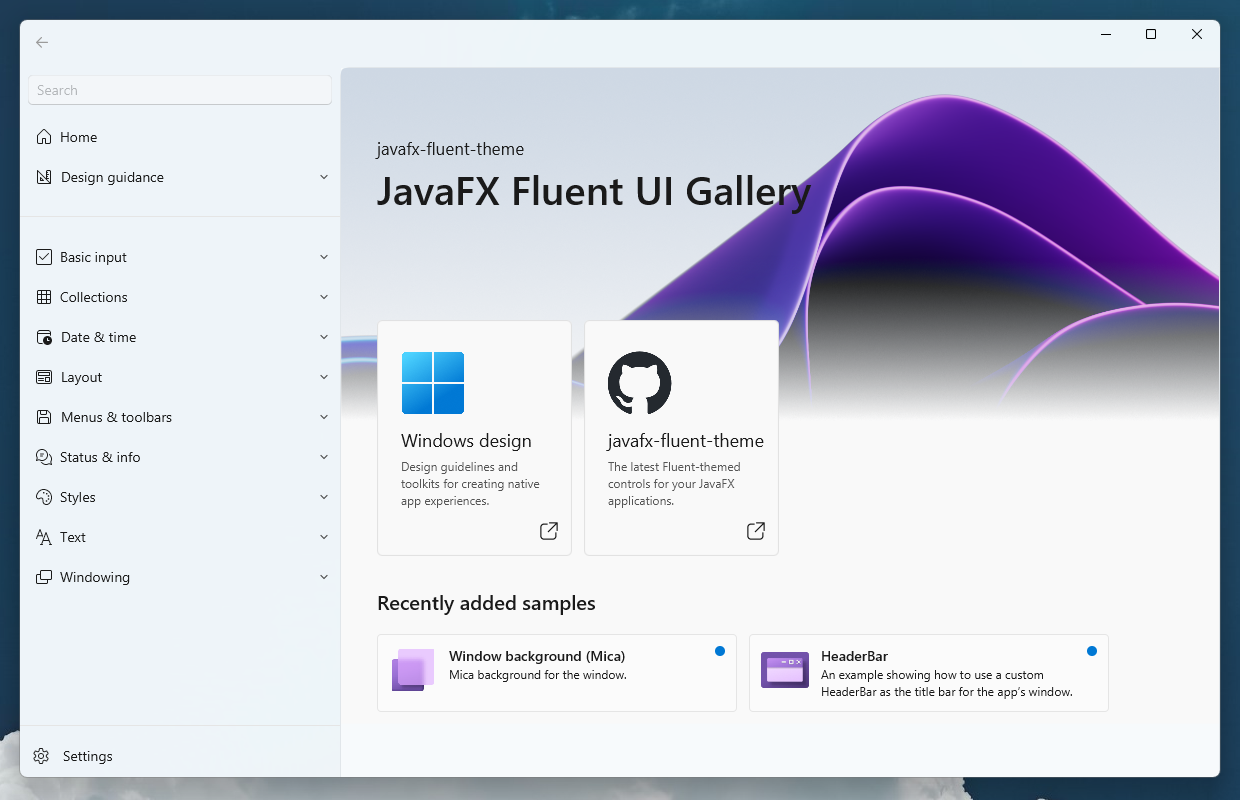
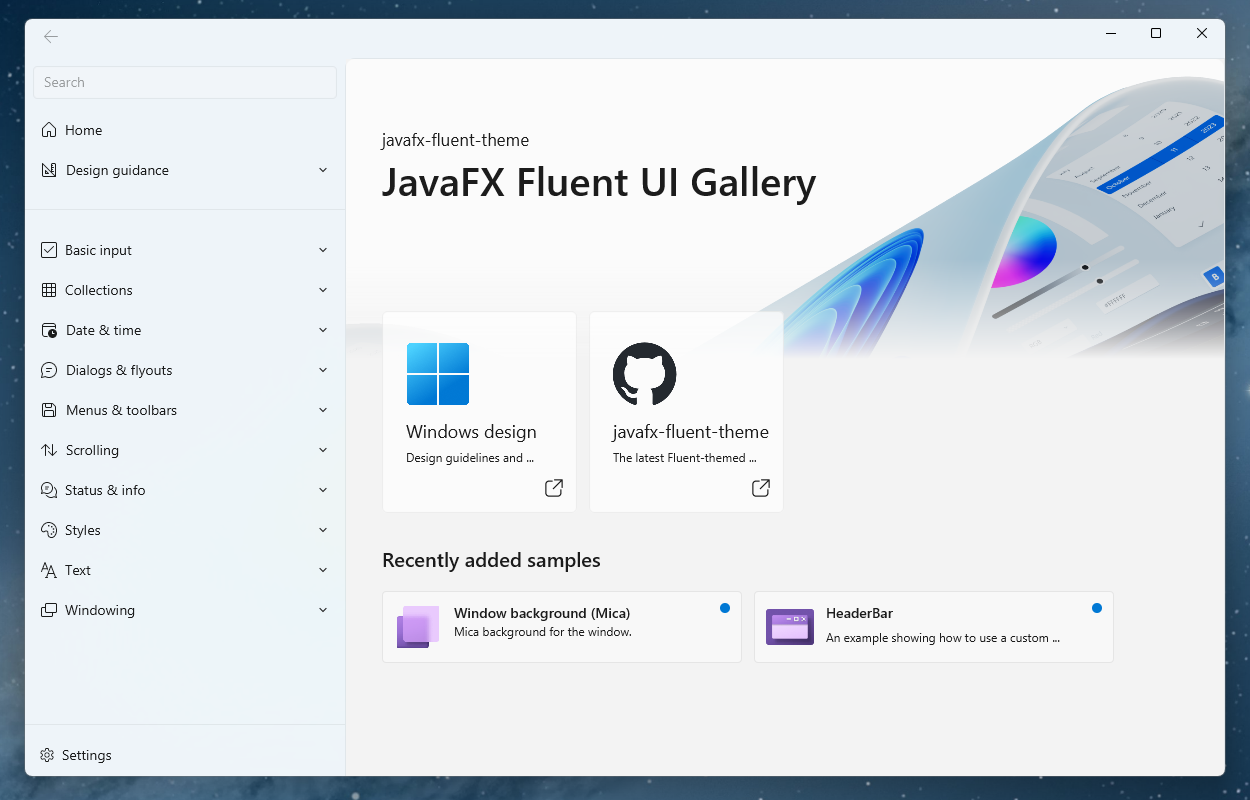
Update README

diff --git a/README.md b/README.md
@@ -2,36 +2,54 @@
 
 ![](/docs/Demo.png)
 
-This is a custom theme for JavaFX to make your application look like a Windows 11 (WinUI) program. It replaces `modena.css` with styles that follow Microsoft's _Fluent design_ language. In addition, you can [apply Windows 11's _Mica_ effect to your window](#enabling-windows-11s-mica-effect), or [override Windows' default window title bar](#removing-windows-default-title-bar) for complete client-side decorations.
+This is a faithful recreation of Windows 11's _fluent theme_ (WinUI) for JavaFX. It is **directly based on WinUI's XAML resources**, and uses Windows' platform APIs to automatically react to the current system theme and accent colors. **All controls are tinted by the active accent color!**
 
-Take a look at the [example application](#demo-application), or see here [how to achieve Windows' built-in effects](#usage).
+In addition, you can [apply Windows 11's _Mica_ effect to your window](#enabling-windows-11s-mica-effect), or [override Windows' default window title bar](#removing-windows-default-title-bar) for complete client-side decorations.
 
-See [here for the list of styled controls](#table-of-javafxwinui-controls), and to see which is still missing.
+<details><summary>Example gallery light theme</summary>
 
-![](/docs/Gallery.png)
+![](/docs/ControlsLight.png)
+</details>
+
+<details><summary>Example gallery dark theme</summary>
+
+![](/docs/ControlsDark.png)
+</details>
+
+## TL;DR
+
+* Download the JAR and `FluentLib.dll` (x64) from the [Releases](https://github.com/Eroica/javafx-fluent-theme/releases)
+* Sub-class `FluentApp`
+  * Initialize your scene in FluentApp's `onCreateStage` (instead of `start`)
+  * DON'T call any `initStyle(...)`
+  * For Mica effect, make sure your Scene has a transparent background
+* Call `FluentApp.initialize()` as early as possible, e.g. in your `fun main()`
+
+By default, this will apply the current system theme (light/dark), watch it for changes, and enable Mica and a client-side header bar for the application.
+
+```kotlin
+fun main() {
+    FluentApp.initialize()
+    launch(FluentDemo::class.java)
+}
+
+class FluentDemo : FluentApp() {
+    override fun onCreateStage(primaryStage: Stage) {
+        primaryStage.minWidth = 800.0
+        primaryStage.minHeight = 600.0
+        primaryStage.title = "JavaFX Fluent Demo"
+        primaryStage.scene = Scene(StackPane(), Color.TRANSPARENT)
+    }
+}
+```
+
+See [Usage](#usage) for detailed explanations.
+
+See [here for the list of styled controls](#table-of-javafxwinui-controls) (and which are still missing).
+
+See [Development](#development) to learn how it works.
 
 ***
-
-The theme and example application are written in Kotlin and built with Gradle. `FluentLib.dll` is required to call Windows' internal functions. It is created by a Visual Studio project located in `FluentLib/`.
-
-```
-theme/      # CSS theme and custom JavaFX controls which can be used as a library
-FluentLib/  # Windows DLL to get access to Mica/title bar replacement
-demo/       # demo application that uses the theme and DLL
-```
-
-The theme (currently, only a light theme is available) is built by SASS with files in `theme/src/main/css`.
-
-## Setup/Installation
-
-The whole `theme` package includes CSS styling, custom skins, and a `FluentApp` abstract class that takes care of setting everything up.
-
-* If you want to use the whole package, you need to build the `theme` package locally, and then include it in your dependencies.
-* Alternatively, if you just want to change the look of some controls, you can copy the theme's CSS file into your project. However, some controls use custom skins to e.g. enable animations. See the [list of controls here](#table-of-javafxwinui-controls).
-
-If you want to use Windows' internal functions, you need to load `FluentLib.dll` in your code. `FluentApp` takes care of that, but the DLL must be available to the application, which is usually where the process is being executed; in a Gradle environment, put it where your project's `build.gradle.kts` is located.
-
-You can download a pre-built DLL from the [Releases](https://github.com/Eroica/javafx-fluent-theme/releases/tag/v2024.04).
 
 ## Usage
 
@@ -46,19 +64,33 @@ fun main() {
 
 This takes care of loading the FluentLib DLL, and does some checks so that Windows 11's Mica effect works (see [Issues](#issues)).
 
-For the `YourApp` class, subclass `FluentApp`. It  has a single abstract method `onCreateStage(Stage)`. In general, whatever you do in `start()`, you should now do in `onCreateStage`, with some exceptions:
+For the application class, it's a little easier if you sub-class `FluentApp` (method 1), but there is also manual way (method 2):
+
+### Sub-classing FluentApp (method 1)
+
+`FluentApp` comes with two abstract methods: `onCreateStage` and `onStageCreated`. In general, whatever you do in `start()`, you should now do in `onCreateStage`, with some exceptions:
 
 * Don't change the Stage style using `initStyle`.
+* **You must set a title for the Stage;** this should be unique to the app because FluentLib uses the title to find the low-level Win32 window handle
 * Don't call `primaryStage.show()`. FluentApp takes care of that.
 
-### Manual setup
+Before `FluentApp` is instantiated, you can configure these static fields:
+
+* `FluentApp.useMica: Boolean`: Whether to apply Windows 11's Mica effect (default: true)
+* `FluentApp.useHeaderBar: Boolean`: Whether to use "client-side decorations" (default: true)
+* `FluentApp.setTheme(ColorScheme?)`: Set a fixed theme (`ColorScheme.DARK`/`ColorScheme.LIGHT`) or `null` to use system theme (default: `null`)
+
+A non-`null` value to `setTheme` will set the theme persistently, i.e. will not react to Windows changes anymore. Activate automatic changes again by calling `FluentApp.setTheme(null)` (see [Demo application](#demo-application)).
+
+### Manual setup (method 2)
 
 If you want to set up the theme manually without subclassing `FluentApp`, make sure to:
 
-* Override `modena.css` as early as possible with `setUserAgentStylesheet("fluent-light.css")`
+* Override `modena.css` as early as possible; you can use `fluent-light.css` and `fluent-dark.css` from this package's resources
 * If you want to use Mica/other effects, load the DLL as early as possible: `System.loadLibrary("FluentLib")`
 * If you want to use Mica/other effects, set your stage's style to `StageStyle.UNIFIED`
-* Only use methods from the FluentLib DLL **after** `primaryStage.show()`
+* **Set a unique title for the stage**
+* Only use methods from FluentLib (wrapped by `lib/Windows.kt`) **after** `primaryStage.show()`
 
 ### Enabling Windows 11's Mica effect
 
@@ -71,7 +103,7 @@ Windows 11's "Mica" effect can be activated with this library's `Windows.setMica
 
 #### Issues
 
-While it's generally possible to get the Mica effect without using Microsoft's blessed ways, it seems it is a little unreliable under JavaFX **when using certain types of GPUs**. More info is available here: [Graphic issues on certain GPUs](https://github.com/mimoguz/custom_window/issues/2)
+While it's generally possible to get the Mica effect without using Microsoft's blessed ways, it seems it is a little **unreliable under JavaFX when using certain types of GPUs**. More info is available here: [Graphic issues on certain GPUs](https://github.com/mimoguz/custom_window/issues/2)
 
 When you see a "glitched" Mica effect, try using software rendering first by setting this as early as possible (i.e. before calling JavaFX' `launch`):
 
@@ -90,7 +122,7 @@ System.setProperty("javafx.animation.fullspeed", "true") // When on monitors >60
 
 Windows' default title bar normally shows a small icon and the window title. You can remove this title bar and merge the content area with the window controls to use this "unused" space. Many macOS and GTK applications use a similar design which arguably looks a little more modern.
 
-The Win32 equivalent is called `DwmExtendFrameIntoTitleBar`. (There is actually code in JavaFX that uses this, but it doesn't seem to work reliably.) With this theme, you get a more reliable way to achieve this window styling. Follow this (if you want to do it manually):
+The Win32 equivalent is called `DwmExtendFrameIntoTitleBar`. (There is actually code in JavaFX that uses this, but it doesn't seem to work reliably.) With this theme, you get a more reliable way to achieve this window styling. Follow this if you want to do it manually:
 
 * The Stage's window style must be `StageStyle.UNIFIED`.
 * **After** `primaryStage.show()`, call `Windows.setHeaderBarFor(String, Boolean)` providing your window's title to remove the title bar.
@@ -115,18 +147,43 @@ An example header bar:
     <padding>
         <Insets top="4.0" right="8.0" bottom="4.0" left="8.0"/>
     </padding>
-    <Button text="&#xe830;" styleClass="subtle" disable="true"></Button>
+    <Button text="&#xe830;" styleClass="subtle, fluent, icon" disable="true"></Button>
     <DragPane HBox.hgrow="ALWAYS"/>
 </HeaderBar>
 ```
 
----
+## Development
+
+The theme and example application are written in Kotlin and built with Gradle. `FluentLib.dll` is required to call Windows' internal functions. It is created by a Visual Studio project located in `FluentLib/`.
+
+```
+theme/      # CSS theme and custom JavaFX controls which can be used as a library
+FluentLib/  # Windows DLL to get access to Mica/title bar replacement
+demo/       # demo application that uses the theme and DLL
+```
+
+### How it works
+
+The "base" fluent theme is referencing the system colors with placeholders (CSS variables), and at runtime, `FluentApp` creates an in-memory stylesheet of the base style and the colors from `Preferences`. The in-memory stylesheet invalidates itself when there is a change to `Preferences` (e.g. theme or accent color has changed), and dynamically creates a new stylesheet. This was actually taken from JavaFX' Modena example app.
+
+The base theme itself is based on my previous, hand-written theme, but referencing the real XAML values from Microsoft's `microsoft-ui-xaml` repository. This makes javafx-fluent-theme _very_ true to the original.
+
+### Non-goals
+
+* Support on macOS or using JavaFX with GTK
+* Compatibility with Windows 10 (Windows 11 replaces the previous _Segoe MDL2 Assets_ with _Segoe Fluent Icons_ which is used throughout this project, and which is not guaranteed to be available on Windows 10).
+
+### Support
+
+If you or a company require more widgets than currently available, fuller control, deeper integration with Windows APIs, or general JavaFX help, you can acquire a commercial license for _javafx-fluent-theme_. You can get in touch by sponsoring this project on GitHub.
+
+***
 
 # Demo application
 
 ![](/docs/Demo.png)
 
-The `demo` application is roughly designed after "WinUI 3 Gallery". So far I mostly added the _controls_ as opposed to containers like `StackPanel`/`StackPane`. Take a look at the list of controls below to see what is missing.
+The `demo` application is roughly designed after "WinUI 3 Gallery". Take a look at the list of controls below to see what is missing.
 
 I renamed "System Backdrops (Mica/Acrylic)" (found under "Styles") to "Window background", and "TitleBar" (under "Windowing") to "HeaderBar".
 
@@ -147,73 +204,67 @@ The demo application requires `FluentLib.dll` in its working directory, so eithe
 
 ## Design guidelines
 
-`javafx-fluent-theme` will set grayscale antialiasing which is the default for Window applications using UWP or WinUI.
+`javafx-fluent-theme` enables grayscale antialiasing which is the default for Window applications using UWP or WinUI.
 
-I mostly tried to follow the designs found in Microsoft's gallery application. When I first started my designs, most of them came from "WinUI 2 Gallery" and only later "WinUI 3 Gallery" caught up with Microsoft's latest designs, so there might still be some subtle differences between Microsoft's most current styles.
-
-In my own designs, I try not to use any title case when labelling buttons or other controls, but only capitalize the first letter.
-
-### Non-goals
-
-* Support on macOS or using JavaFX with GTK
-* Compatibility with Windows 10 (Windows 11 replaces the previous _Segoe MDL2 Assets_ with _Segoe Fluent Icons_ which is used throughout this project, and which is not guaranteed to be available on Windows 10).
-
+In my own designs, I use sentence case when labelling buttons and other controls. Additionally, my "primary button" is always located at the bottom right of a dialog (instead of being the first element).
 
 ## Table of JavaFX/WinUI controls
 
-(Status: Done = styled & done; WIP = Added but not everything styled yet; Missing = Not added yet; Skipped = not planning on working on it)
+(Status: Done = styled & done; Missing = Not added yet; Skipped = not planning on working on it)
 
-| JavaFX            | WinUI                          | Status  | CSS only?† |
-|-------------------|--------------------------------|---------|------------|
-| Button            | Button                         | Done    | YES        |
-| CheckBox          | CheckBox                       | Done    | YES        |
-| ChoiceBox         | ComboBox                       | Done    | YES        |
-| ColorPicker       | ColorPicker                    | Missing | -          |
-| ComboBox          | ComboBox                       | Done    | NO‡        |
-| ContextMenu       | (several)                      | Done    | NO‡        |
-| DatePicker        | CalendarDatePicker, DatePicker | Done    | YES        |
-| HTMLEditor        | -                              | Skipped | -          |
-| Hyperlink         | HyperlinkButton                | Done    | YES        |
-| ImageView         | Image                          | Done    | YES        |
-| Label             | TextBlock                      | Done    | YES        |
-| ListView          | ListView                       | Done    | NO‡        |
-| MediaView         | MediaPlayerElement             | Skipped | -          |
-| MenuBar           | MenuBar                        | WIP     | YES        |
-| MenuButon         | DropDownButton                 | Done    | YES        |
-| Pagination        | -                              | Skipped | -          |
-| PasswordField     | PasswordBox                    | Done    | YES        |
-| ProgressBar       | ProgressBar                    | Done    | YES        |
-| ProgressIndicator | ProgressRing                   | Skipped | -          |
-| RadioButton       | RadioButton                    | Done    | YES        |
-| ScrollBar         | ScrollBar                      | Done    | YES        |
-| Separator         | (AppBarSeparator)              | Done    | YES        |
-| Slider            | Slider                         | Done    | NO         |
-| Spinner           | NumberBox                      | Done    | NO         |
-| SplitMenuButton   | SplitButton                    | Missing | -          |
-| TableView         | DataGrid/DataTable             | WIP     | YES        |
-| TextArea          | TextBox                        | Done    | YES        |
-| TextField         | TextBox                        | Done    | YES        |
-| ToggleButton      | ToggleButton                   | Done    | YES        |
-| Tooltip           | ToolTip                        | Done    | NO‡        |
-| TreeTableView     | DataGrid (I think)             | Skipped | YES        |
-| TreeView          | TreeView                       | WIP     | -          |
-| WebView           | WebView2                       | Skipped | -          |
+| JavaFX            | WinUI                          | Status  |
+|-------------------|--------------------------------|---------|
+| Button            | Button                         | Done    |
+| CheckBox          | CheckBox                       | Done    |
+| ChoiceBox         | ComboBox                       | Done    |
+| ColorPicker       | ColorPicker                    | Missing |
+| ComboBox          | ComboBox†                      | Done    |
+| ContextMenu       | (several)                      | Done    |
+| DatePicker        | CalendarDatePicker, DatePicker | Done    |
+| HTMLEditor        | -                              | Skipped |
+| Hyperlink         | HyperlinkButton                | Done    |
+| ImageView         | Image                          | Done    |
+| Label             | TextBlock                      | Done    |
+| ListView          | ListView                       | Done    |
+| MediaView         | MediaPlayerElement             | Skipped |
+| MenuBar           | MenuBar                        | Done    |
+| MenuButon         | DropDownButton                 | Done    |
+| Pagination        | PipsPager                      | Missing |
+| PasswordField     | PasswordBox                    | Done    |
+| ProgressBar       | ProgressBar                    | Done    |
+| ProgressIndicator | ProgressRing                   | Skipped |
+| RadioButton       | RadioButton                    | Done    |
+| ScrollBar         | ScrollBar                      | Done    |
+| Separator         | (AppBarSeparator)              | Done    |
+| Slider            | Slider                         | Done    |
+| Spinner           | NumberBox                      | Done    |
+| SplitMenuButton   | SplitButton                    | Missing |
+| TableView         | DataGrid/DataTable             | Skipped |
+| TextArea          | TextBox                        | Done    |
+| TextField         | TextBox                        | Done    |
+| ToggleButton      | ToggleButton                   | Done    |
+| Tooltip           | ToolTip‡                       | Done    |
+| TreeTableView     | DataGrid (I think)             | Skipped |
+| TreeView          | TreeView                       | Done    |
+| WebView           | WebView2                       | Skipped |
 
-<sup>†</sup>This means that no custom `Skin` is used to add any custom behavior. You could simply copy-paste the CSS attributes to get the design.
+<sup>†</sup> Use `FluentComboBox` for WinUI-themed dropdownl ist.
 
-<sup>‡</sup>The control can be styled with CSS only, but in addition, you can instantiate `Fluent[Name]` to have "fluent animations".
+<sup>‡</sup>Instantiate `FluentTooltip` for fluent animations (fade in/out).
 
 Additionally, the following container styles are available or currently in preparation:
 
-| JavaFX     | WinUI         | Status  | CSS only? |
-|------------|---------------|---------|-----------|
-| Dialog     | ContentDialog | WIP     | YES       |
-| SplitPane  | SplitView     | Missing | -         |
-| TabPane    | TabView       | Missing | -         |
-| Expander   | Expander      | WIP     | -         |
-| ScrollPane | ScrollView    | WIP     | -         |
-| ToolBar    | CommandBar    | Missing | -         |
-| InfoBar    | InfoBar       | Done    | NO        |
+| JavaFX     | WinUI         | Status  | Class(es)                         |
+|------------|---------------|---------|-----------------------------------|
+| Dialog     | ContentDialog | Done    | FluentDialog, FluentStageDialog † |
+| SplitPane  | SplitView     | Missing | -                                 |
+| TabPane    | TabView       | Done    | TabPane                           |
+| TitledPane | Expander      | Done    | TitledPane                        |
+| ScrollPane | ScrollView    | Done    | ScrollPane                        |
+| ToolBar    | CommandBar    | Missing | -                                 |
+| -          | InfoBar       | Done    | InfoBar                           |
+
+<sup>†</sup> Both dialog classes add a "smoke overlay" to the parent window. This works out-of-the-box when sub-classing `FluentApp`. In other cases, make sure the parent window has an outermost StackPane. (And calling a dialog from a dialog isn't a good idea ...)
 
 ## Gallery
 
@@ -223,7 +274,9 @@ Here are my JavaFX applications that I styled with this theme:
 
 ![](/docs/ExampleApp2.png)
 
----
+***
+
+# License
 
 This project is published under the zlib license (see `LICENSE` file in this repository).
 
@@ -246,3 +299,5 @@ freely, subject to the following restrictions:
    misrepresented as being the original software.
 3. This notice may not be removed or altered from any source distribution.
 ```
+
+![](/docs/Developed-By-a-Human-Not-By-AI-Badge-white.png)
